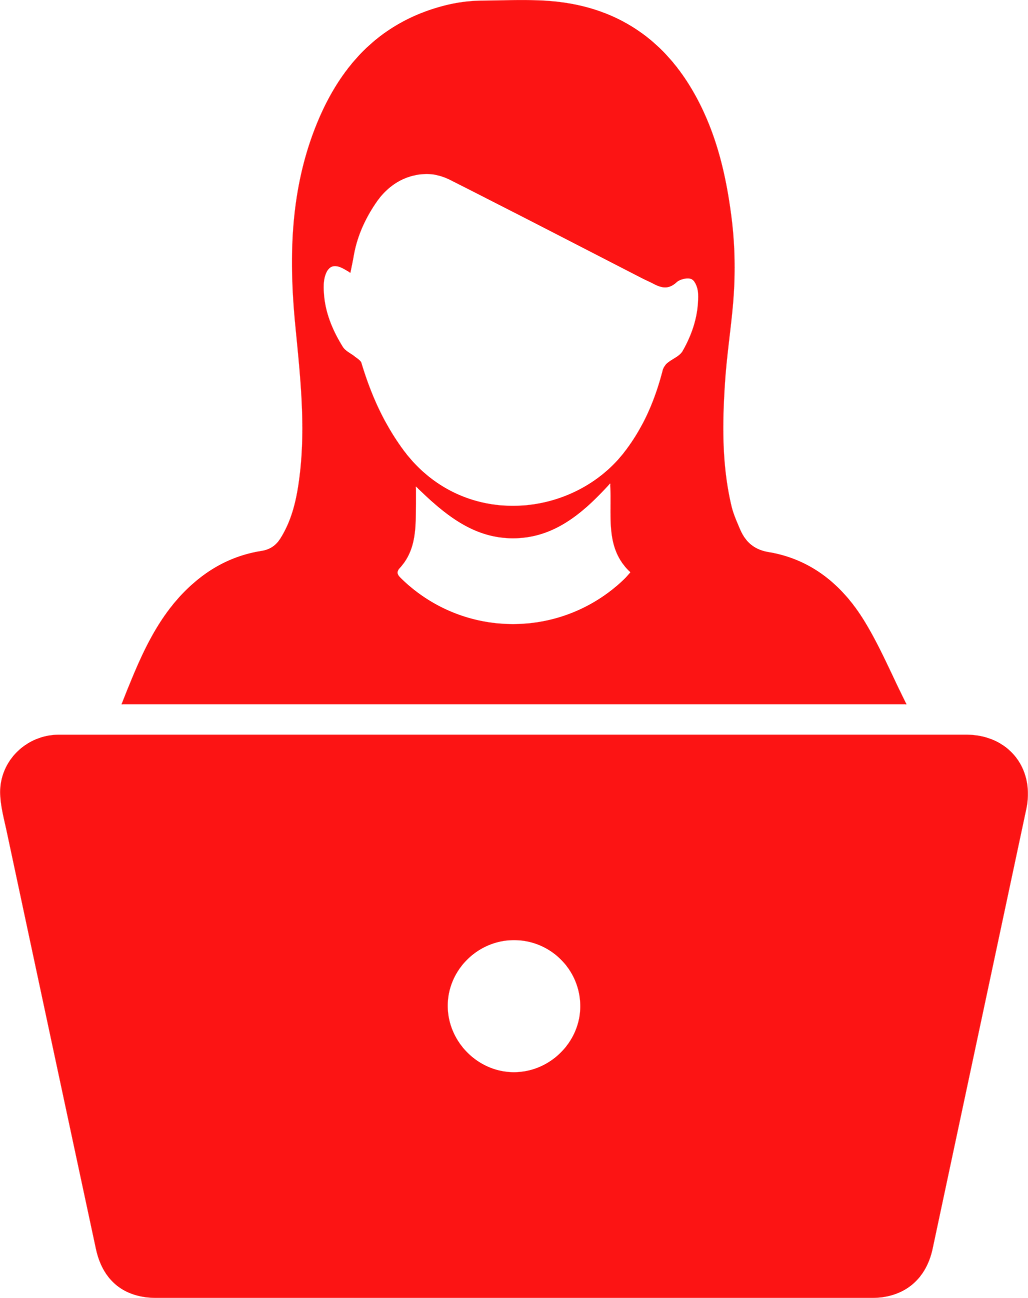
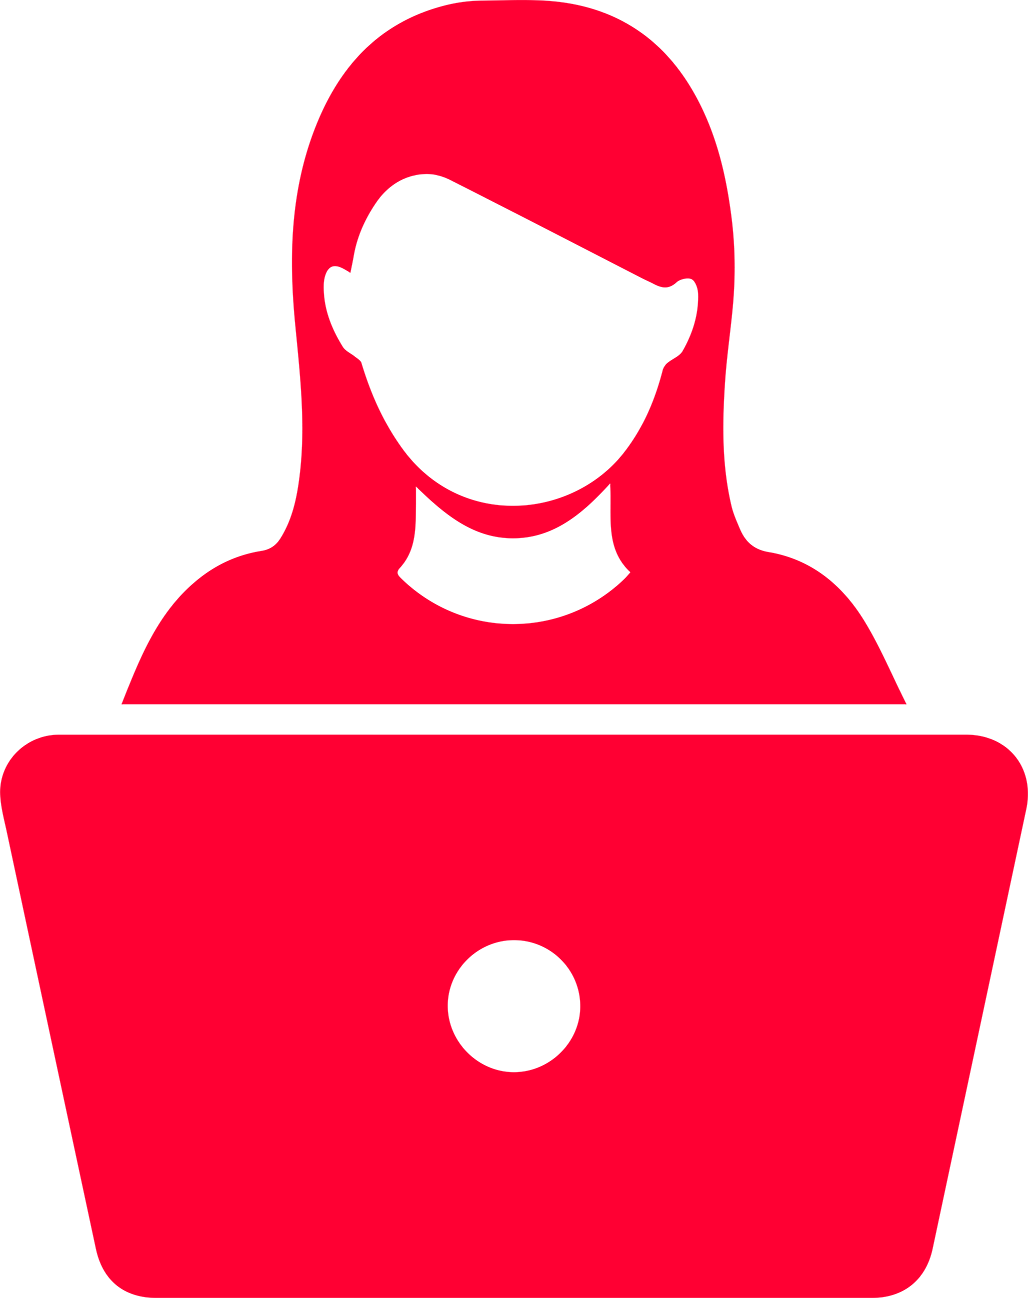
Add files via upload

diff --git a/index.html b/index.html
@@ -32,10 +32,43 @@
 
 
 
+    <!--Innehåll-->
+    <div class="content">
+
+
+
+    <nav class="navbar navbar-expand-lg navbar-light ">
+  
+  <button class="navbar-toggler" type="button" data-toggle="collapse" data-target="#navbarNav" aria-controls="navbarNav" aria-expanded="false" aria-label="Toggle navigation">
+    <span class="navbar-toggler-icon"></span>
+  </button>
+  <div class="collapse navbar-collapse" id="navbarNav">
+    <ul class="navbar-nav">
+      <li class="nav-item active">
+        <a class="nav-link" href="index.html">Hem <span class="sr-only">(current)</span></a>
+      </li>
+      <li class="nav-item">
+        <a class="nav-link" href="#">Om oss</a>
+      </li>
+      <li class="nav-item">
+        <a class="nav-link" href="#">Bildgalleri</a>
+      </li>
+      <li class="nav-item">
+        <a class="nav-link" href="#">Tips</a>
+      </li>
+    </ul>
+  </div>
+</nav>
+
+    
+
+
+
+
     <!-- Slide-->
     <div class="row">
 
-    <div class="col-sm-4 offset-4">
+    <div class="col-md-4 offset-md-4">
 
     <div class="slide1">
 
@@ -53,15 +86,29 @@
      </div>
      </div>
 
-     </div>
+      </div>
      </div>
     </div>
+    <!--Slut på slide-->
+
+  
+
+  
 
 
 
+    
+
+
+   
+
+      </div>
+      <!--Slut på content-->
 
       <!-- Footer -->
       <footer>
+
+      Tjejhack Ronneby
         
       </footer>
 

diff --git a/css/style.css b/css/style.css
@@ -1,24 +1,25 @@
 :root{
-	--yearlycolor: #fc1414;
+	--yearlycolor1: #FF0033;
+	--yearlycolor2: #666666;
 }
 header{
 	text-align: center;
 	height: 80px;
-	color: #505050;
+	color: var(--yearlycolor2);
 	box-shadow: 0px 1px 8px -1px rgba(0,0,0,0.7);
 }
 html{
 	overflow-x:hidden;
 	overflow-y:scroll;
 }
-body{
+.content{
 	height:1000px;
 }
 ::-webkit-scrollbar{
 	width: 12px;
 }
 ::-webkit-scrollbar-thumb{
-	background: var(--yearlycolor);
+	background: var(--yearlycolor1);
 	border-radius: 10px;
 }
 .th{
@@ -30,9 +31,14 @@ body{
 }
 .log{
 	font-size: 40px;
-	color: #505050;
+	color: var(--yearlycolor2);
+}
+.meny{
+	font-style:bold;
+	color: var(--yearlycolor2);
 }
 .slide1{
+	margin:auto;
 	margin-top:30px;
 	height: 300px;
 	width:300px;
@@ -44,4 +50,13 @@ body{
 .slideimg{
 	width: 300px;
 	height: 300px;
+}
+.widget{
+	border-left: 2px solid gray;
+}
+.red{
+	background-color: red;
+}
+footer{
+	text-align:center;
 }
